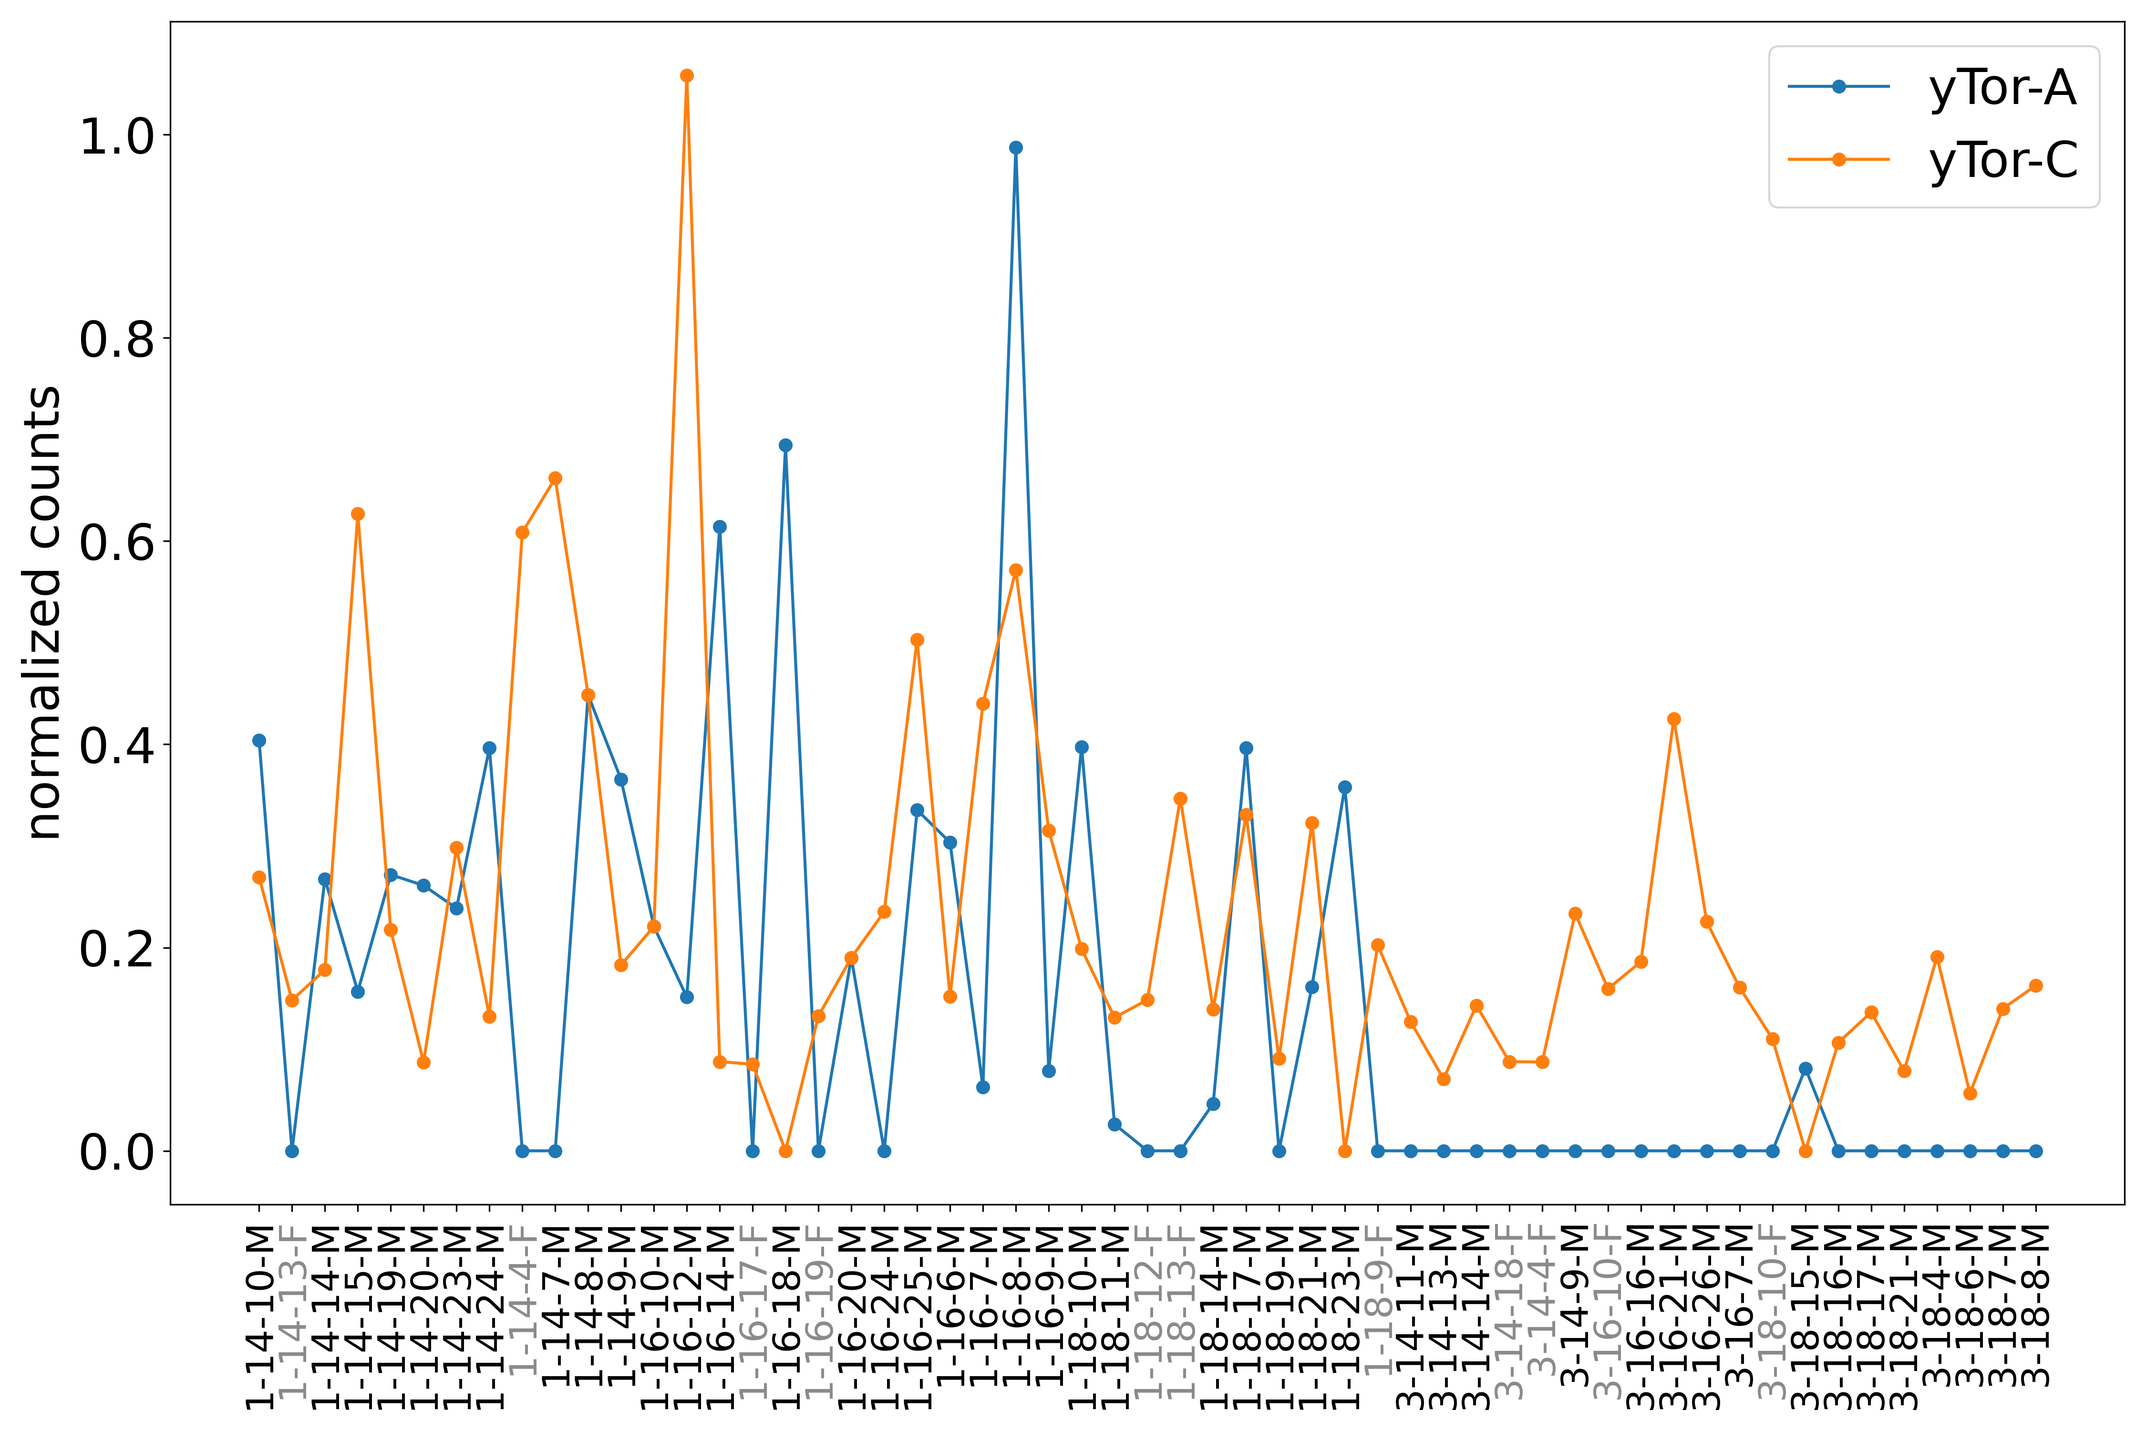
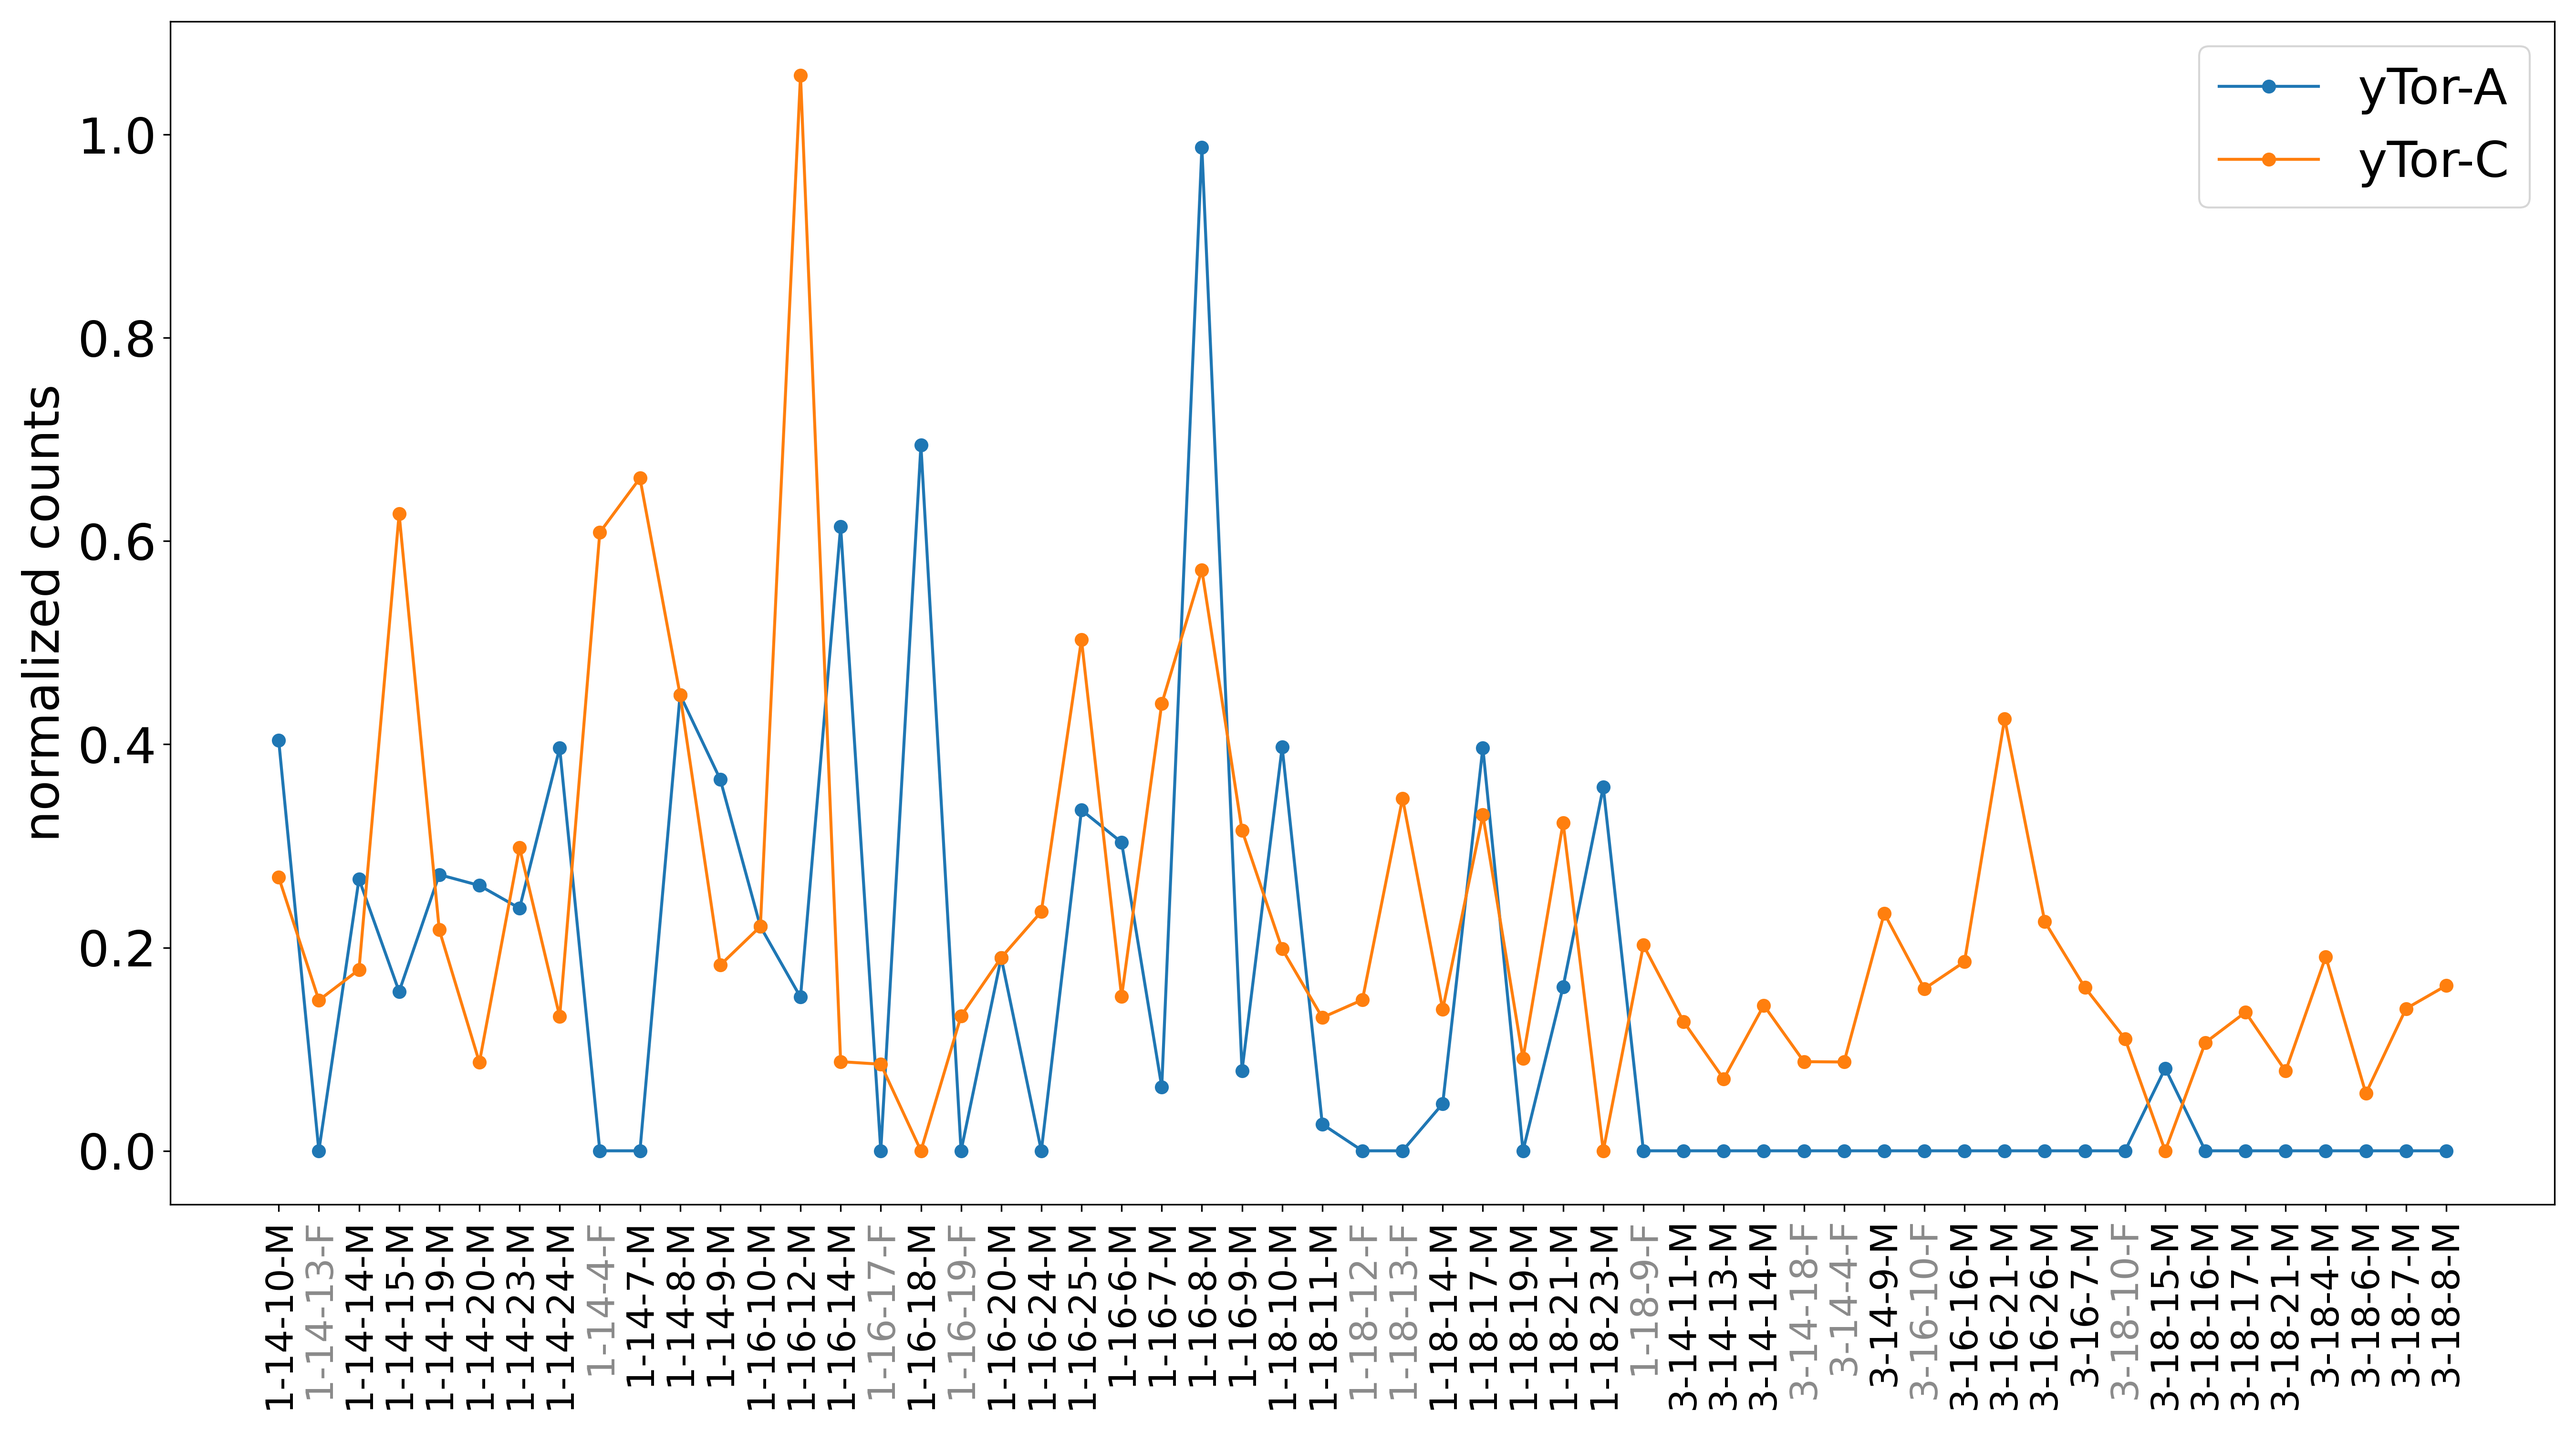
aspect ratio

diff --git a/src/basic_plotting.py b/src/basic_plotting.py
@@ -36,7 +36,7 @@ def plot_counts(counts_table:str, geneIDs_list:list, outfile_name:str):
     print(f"out of {len(headers)} there are {len(nonzero_samples)} samples that have at least one count in one gene! \n{nonzero_samples}")
 
     ### plotting
-    fig, ax = plt.subplots(1,1, figsize=(15, 10)) # for more than three rows
+    fig, ax = plt.subplots(1,1, figsize=(18, 10)) # for more than three rows
 
     fs = 25
     ps = fs*15 # point size
